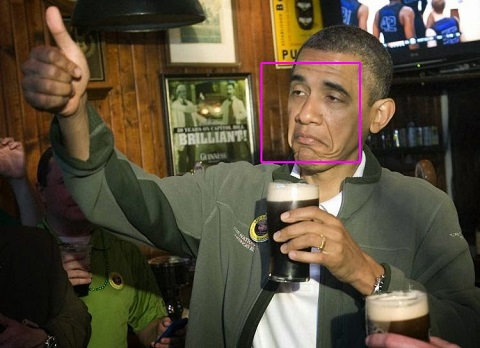
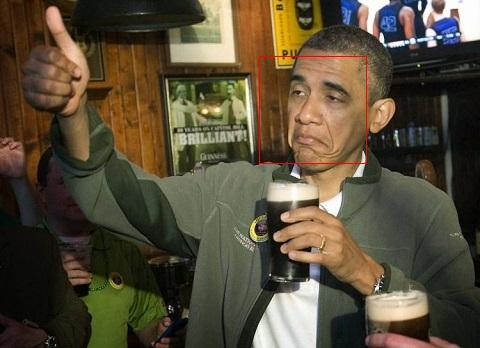
2017-12-29 18:04:44

Changed region(s): [[0.5312, 0.1437, 0.7812, 0.4885]]

diff --git a/docs/content/ml_dlib.md b/docs/content/ml_dlib.md
@@ -58,23 +58,28 @@ dlib 自带人脸检测模块, 其 python 脚本位于 `/python_examples/face_de
 
 ```py
 import sys
-import cv2
+
 import dlib
+import skimage.draw
+import skimage.io
 
 load_name = sys.argv[1]
 save_name = sys.argv[2]
 
 detector = dlib.get_frontal_face_detector()
 
-img = cv2.imread(load_name)
+img = skimage.io.imread(load_name)
 dets = detector(img, 1)
-print("Number of faces detected: {}".format(len(dets)))
-for i, d in enumerate(dets):
-    print("Detection {}: Left: {} Top: {} Right: {} Bottom: {}".format(
-        i, d.left(), d.top(), d.right(), d.bottom()))
-    cv2.rectangle(img, (d.left(), d.top()), (d.right(), d.bottom()), (255, 0, 255), 1)
+print('Number of faces detected: {}'.format(len(dets)))
+for d in dets:
+    r0, c0, r1, c1 = d.top(), d.left(), d.bottom(), d.right()
+    print('Detection {}'.format([(r0, c0), (r1, c1)]))
+    skimage.draw.set_color(img, skimage.draw.line(r0, c0, r0, c1), (255, 0, 0))
+    skimage.draw.set_color(img, skimage.draw.line(r0, c1, r1, c1), (255, 0, 0))
+    skimage.draw.set_color(img, skimage.draw.line(r1, c1, r1, c0), (255, 0, 0))
+    skimage.draw.set_color(img, skimage.draw.line(r1, c0, r0, c0), (255, 0, 0))
 
-cv2.imwrite(save_name, img)
+skimage.io.imsave(save_name, img)
 ```
 
 ```sh
@@ -98,38 +103,34 @@ dlib 自带人脸标注模块, 其 python 脚本位于 `/python_examples/face_la
 ```py
 import sys
 
-import cv2
 import dlib
-import numpy as np
+import skimage.draw
+import skimage.io
 
 predictor_path = sys.argv[1]
 load_name = sys.argv[2]
 save_name = sys.argv[3]
 
 detector = dlib.get_frontal_face_detector()
-predictor = dlib.shape_predictor(predictor_path)
+shape_predictor = dlib.shape_predictor(predictor_path)
 
-img = cv2.imread(load_name)
+img = skimage.io.imread(load_name)
 dets = detector(img, 1)
-print("Number of faces detected: {}".format(len(dets)))
+print('Number of faces detected: {}'.format(len(dets)))
 for i, d in enumerate(dets):
-    print("Detection {}: Left: {} Top: {} Right: {} Bottom: {}".format(
-        i, d.left(), d.top(), d.right(), d.bottom()))
-    cv2.rectangle(img, (d.left(), d.top()), (d.right(), d.bottom()), (255, 0, 255), 1)
-    shape = predictor(img, d)
-    print("Part 0: {}, Part 1: {} ...".format(shape.part(0), shape.part(1)))
-    shape = [(p.x, p.y) for p in predictor(img, d).parts()]
-    for i, pos in enumerate(shape):
-        # 可以打上每个点的索引
-        # cv2.putText(
-        #     img, str(i), pos,
-        #     fontFace=cv2.FONT_HERSHEY_SCRIPT_SIMPLEX,
-        #     fontScale=0.4,
-        #     color=(0, 0, 255)
-        # )
-        cv2.circle(img, pos, 2, color=(0, 255, 255))
+    r0, c0, r1, c1 = d.top(), d.left(), d.bottom(), d.right()
+    print(i, 'Detection {}'.format([(r0, c0), (r1, c1)]))
+    skimage.draw.set_color(img, skimage.draw.line(r0, c0, r0, c1), (255, 0, 0))
+    skimage.draw.set_color(img, skimage.draw.line(r0, c1, r1, c1), (255, 0, 0))
+    skimage.draw.set_color(img, skimage.draw.line(r1, c1, r1, c0), (255, 0, 0))
+    skimage.draw.set_color(img, skimage.draw.line(r1, c0, r0, c0), (255, 0, 0))
 
-cv2.imwrite(save_name, img)
+    shape = [(p.x, p.y) for p in shape_predictor(img, d).parts()]
+    print('Part 0: {}, Part 1: {} ...'.format(shape[0], shape[1]))
+    for i, pos in enumerate(shape):
+        skimage.draw.set_color(img, skimage.draw.circle(pos[1], pos[0], 2), (0, 255, 0))
+
+skimage.io.imsave(save_name, img)
 ```
 
 ```sh
